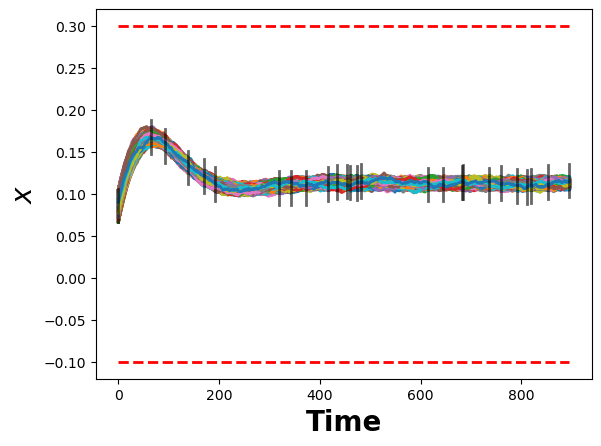
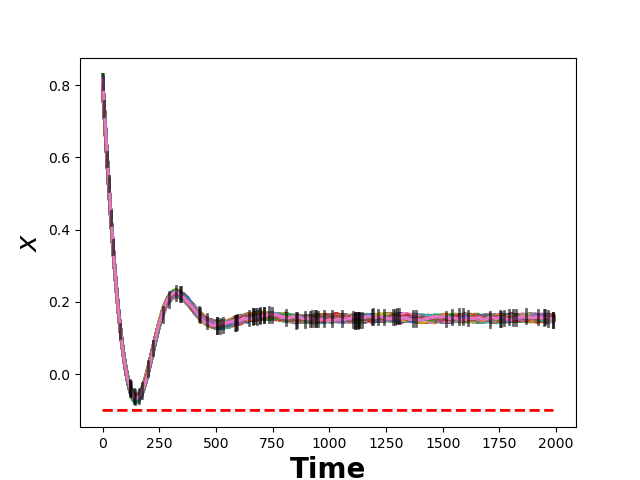
Illustrative Example added

diff --git a/README.md b/README.md
@@ -151,7 +151,7 @@ This artifact is distributed as a pre-configured VirtualBox virtual machine to e
 8. Start the imported virtual machine.
 
 9. Use password: **posto123** to log in.
-    
+   
    **NOTE:** The password is the same for both the virtual machines.
 
 No additional configuration or installation is required.
@@ -284,97 +284,164 @@ posto.py checkSafety \
 ```
 
 #### Illustrative Example
+##### Jet Model
+The Jet model is a Moore-Greitzer model of a jet engine compressor which has a stabilizing feedback control, operating in the no-stall mode. It describes the shifted mass flow rate through the compressor (x) and the shifted pressure rise (y)  across it. The discretized dynamics are given as follows:
 
-##### JSON Representation
+$$
+x_{k+1} = x_k + \Delta t \left( -y_k - 1.5x_k^2 - 0.5x_k^3 - 0.5 \right) + \epsilon
+$$
 
-![model1.json](docs/img/JSON.png)
+$$
+y_{k+1} = y_k + \Delta t \left( 3x_k - y_k \right) + \epsilon
+$$
 
-#### System Behavior
+where 
+
+$x = \mathcal{X} - 1$, 
+
+$y = \mathcal{Y} - \mathcal{Y}_{co} - 2$, 
+
+ Here,  $\epsilon$ is the bounded environmental uncertainty on $x$ and $y$ which is sampled uniformly at every time step ($\Delta t$) and models the disturbances that are not captured by the dynamics.
+
+The following diagram shows how Posto works to monitor these dynamical systems.
+
+<p align="center">
+  <img src="docs/img/Arch_Summary.png" width="50%">
+</p>
+
+###### JSON Representation (I/O Execution Model + Safety Constraints)
+
+The Jet model is specified in a JSON file in which the state variables, noise, dynamics, and safety constraints are encoded as follows: 
+
+<p align="center">
+  <img src="docs/img/JSON.png" width="50%">
+</p>
+
+- `state_vars`: the state variables $x$ and $y$. 
+
+- `constants`: fixed values used in the equations, here the time step `dt` ($\Delta t = 0.01$). 
+
+- `ranges`: the noise variable `ep`, which represents the environmental uncertainty $\epsilon$. A random value of `ep` is drawn uniformly from $[0, 0.002]$.
+
+-  `equations`: the update rule for each state. The primed name (`x'`, `y'`) denotes the value at the next time step ($x_{k+1}$, $y_{k+1}$). 
+
+-  `safety_constraints`: the list of unsafe conditions, each defined by 
+
+  - `state`: the monitored state variable
+
+  -  `op`: the comparison operator, one of `ge` ($\geq$), `le` ($\leq$), `gt` ($>$), or `lt` ($<$)
+
+  - `const`: the threshold. 
+
+    The two entries encode $x \leq -0.10$ and $y \leq -0.10$. A trajectory is unsafe if any entry holds at any time step.
+
+
+
+**System Behavior**
+
+The `behavior` command samples initial states uniformly from the initial set $x, y \in [0.8, 1.0]$ and simulates each one for the time horizon $T = 2000$ using the dynamics above (Block 1). The trajectories differ because each starts from a different initial state and receives a random noise $\epsilon$ from within the provided ranges.
 
 ```bash
-python3 posto.py behavior --log=logs/model0.lg --init="[[0.0, 0.2], [0.0, 0.2]]" --timestamp=1000 --mode=equation 
---model_path=/home/prachi-bhattacharjee/Posto/models/model0.json
+python posto.py behavior --log=logs/Jet.lg --init="[[0.8, 1.0], [0.8, 1.0]]" --timestamp=2000 --mode=equation --model_path=models/Jet.json
 ```
 
-##### Example Results
+###### **Example Results**
 
-<p align="left">
-  <img src="docs/img/Behavior/terminal.png" width="50%">
+<p align="center">
+  <img src="docs/img/Behavior/terminal.png" width="40%">
 </p>
 
 <p align="center">
-  <img src="docs/img/Behavior/behaviorPair_0_1.png" width="30%">
+  <img src="docs/img/Behavior/behaviorPair_0_1.png" width="50%">
 </p>
+The plot above shows the resulting trajectories, each shown in a different color with $x$ and $y$ on the x- and y-axes and the time step on the z-axis. For models with more than two state variables, one plot is generated for each pair of states, so any pair can be inspected. The plots are saved in `logs/img`.
 
+**Generate Log**
 
-
-#### Generate Log
+`checkSafety` requires a log of the system as an input. This log can be generated by Posto with the `generateLog` command (Block 2 in the diagram above). It simulates one trajectory from a random initial state and records each time step with logging probability `prob` (in percent). Starting with the initial state, each recorded state $v$ is stored as the interval $[v - \delta_{log}, v + \delta_{log}]$, where $\delta_{log}$ is set by `dtlog`, giving a sparse and uncertain log similar to one recorded by a noisy sensor.
 
 ```bash
-python3 posto.py generateLog --log=/home/prachi-bhattacharjee/Posto/logs/model0.lg --init="[[0.0, 0.2], [0.0, 0.2]]" --timestamp=1000 --mode="equation" --model_path=/home/prachi-bhattacharjee/Posto/models/model0.json 
---prob=3 --dtlog=0.02
+python posto.py generateLog --log=logs/Jet.lg --init="[[0.8, 1.0], [0.8, 1.0]]" --timestamp=2000 --mode=equation --model_path=models/Jet.json --prob=5 --dtlog=0.04
 ```
 
-##### Example Results
+###### Example Results
 
-<p align="left">
-  <img src="docs/img/Log/terminal.png" width="50%">
+<p align="center">
+  <img src="docs/img/Log/terminal.png" width="40%">
 </p>
+###### Log File Example 
 
+Each line of the log stores a time step followed by one interval per state, in the order of `state_vars`:
 
-##### Log File Example 
-
-<p align="left">
+<p align="center">
   <img src="docs/img/Log/Log.png" width="50%">
 </p>
+Posto also plots the log in 3D, with $x$ and $y$ on the horizontal axes and the time step on the vertical axis. In these plots, the boxes mark all log records and do not indicate safety
 
-##### Without Trajectory Visualization
+###### Without Trajectory Visualization
 
 <p align="center">
   <img src="docs/img/Log/pair_0_1.png" width="30%">
 </p>
+The plot shows the log records as brown boxes.
 
 
-##### With Trajectory Visualization
+###### With Trajectory Visualization
 
 <p align="center">
-  <img src="docs/img/Log/traj_log_pair_0_1.png" width="30%">
+  <img src="docs/img/Log/traj_log_pair_0_1.png" width="85%">
 </p>
+The blue curve in this plot shows the simulated trajectory from which the log has been recorded along with the records denoted with the brown boxes.
 
+**Check Safety**
 
-
-#### Check Safety
+The `checkSafety` command takes the mode, the model and a log as inputs. It first checks every log record against the safety constraints. If the log is determined to be safe, it generates random trajectories (Block 1) keeping only the valid ones that pass through every record in the provided log and checks them against the constraints (Block 5). It stops at the first unsafe valid trajectory or infers the system to be safe once $K$ ( obtained from Block 3) valid trajectories  are all found safe. During the run, Posto prints the number of generated and valid trajectories every 100 trajectories, followed by the time taken and the verdict.
 
 ```bash
-python3 posto.py checkSafety --log=logs/model0.lg --mode=equation 
---model_path=/home/prachi-bhattacharjee/Posto/models/model0.json
+python posto.py checkSafety --log=logs/Jet.lg --mode=equation --model_path=models/Jet.json
 ```
-##### Example Results
+Posto produces one plot per state variable, with the time step on the horizontal axis and the state value on the vertical axis. Black boxes are log records, and the red dashed horizontal line marks the threshold $-0.10$.
+
+###### Example Results
 
 ##### SAFE
 
-<p align="left">
-  <img src="docs/img/Safe/terminal.png" width="50%">
-</p>
+<p align="center">
+  <img src="docs/img/Safe/terminal1.png" width="30%">
+  <img src="docs/img/Safe/terminal2.png" width="30%">
+</p
+
 
 <p align="center">
   <img src="docs/img/Safe/SafeTrajs_state0.png" width="30%">
   <img src="docs/img/Safe/SafeTrajs_state1.png" width="30%">
 </p>
+In the above plots, the colored lines are the valid trajectories, each passing through every record on the log and staying above the threshold. All 1,147 valid trajectories (out of 13,000 generated) are safe, so the system is inferred safe with confidence $c$.
 
+##### UNSAFE LOG
 
-
-##### UNSAFE
-
-<p align="left">
-  <img src="docs/img/Unsafe/terminal.png" width="50%">
+<p align="center">
+  <img src="docs/img/LogUnsafe/terminal.png" width="50%">
 </p>
+<p align="center">
+  <img src="docs/img/LogUnsafe/SafeUnsafeLogs_state0.png" width="30%">
+  <img src="docs/img/LogUnsafe/SafeUnsafeLogs_state1.png" width="30%">
+</p>
+
+In this example, the system is inferred to be unsafe since $x$ intervals of 3 records in the log itself reach $-0.10$ (t = 134, 137, 161). As a result, no trajectories are generated. Brown boxes in the $x$ plot are unsafe log records. It also appears brown in the $y$ plot.
+
+##### UNSAFE TRAJECTORY
+
+<p align="center">
+  <img src="docs/img/Unsafe/terminal.png" width="40%">
+</p>
+
 
 <p align="center">
   <img src="docs/img/Unsafe/SafeUnsafeTrajs_state0.png" width="30%">
   <img src="docs/img/Unsafe/SafeUnsafeTrajs_state1.png" width="30%">
 </p>
-
+All log records are safe but a valid trajectory shown as the red dashed curve drops below $-0.10$ in $x$ near step 150 and is returned as a counterexample. The blue curve is a safe valid trajectory.
 
 ## Other Usage: Development Mode
 Custom next‑state function without modifying core `Posto` code.
